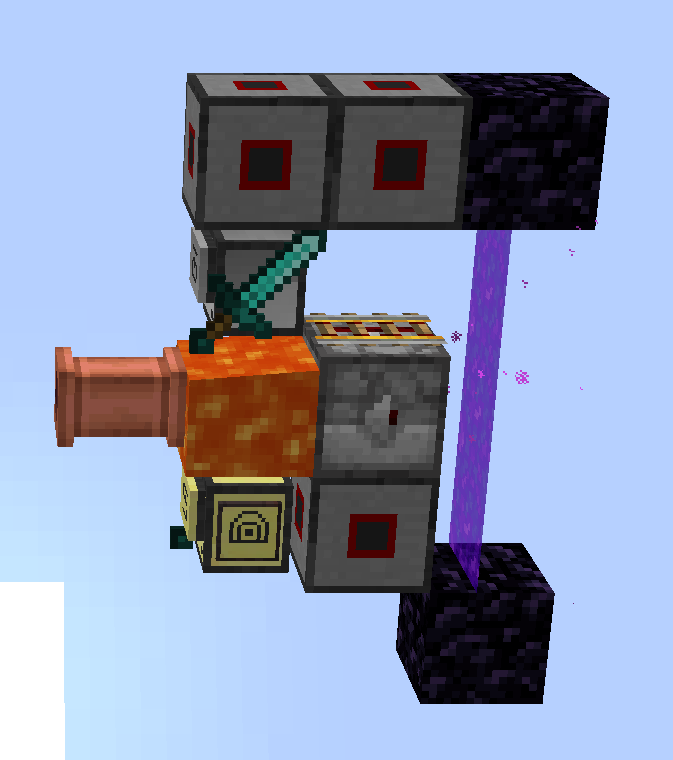
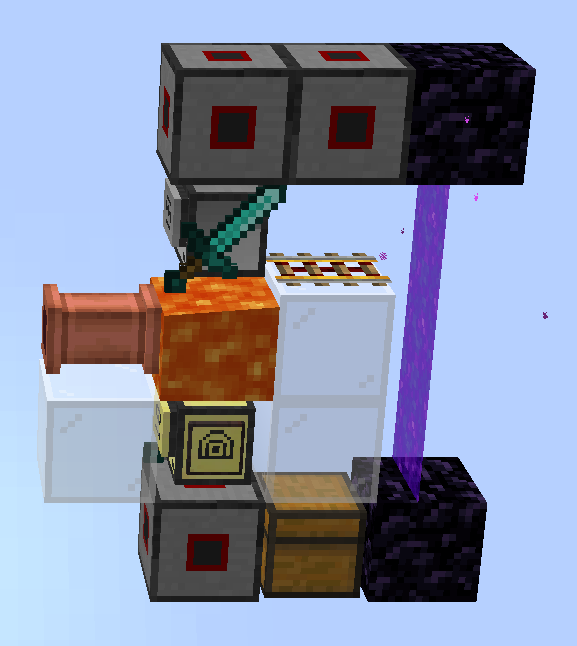
storage: Fix overworld home layout
Previously, the turtle couldn't see the wired modem in some
orientations.

diff --git a/sys/packages/storage/README.md b/sys/packages/storage/README.md
@@ -47,9 +47,9 @@ The overworld home looks like this:
 - The turtle at the top is an *ender helper*, which executes tasks on behalf of the client when it's in the Nether.
 - The pipe should be connected to a pump, refilling the lava source block.
 - Make sure that all modems are enabled and connected to one wired network with the storage.
-- The block to the right of lava is a dropper. Its orientation does not matter, and it serves exclusively as a non-flammable peripheral to keep the modem enabled when the client is away.
 - The rail is oriented towards the portal; you will need to play around with rails to place multiple such rails side by side, so maybe build that part first.
 - The turtle at the bottom is the ender storage turtle. When it's away, there will be flowing lava in its space, that's fine. You'll need to break the turtle for maintenance, so make sure you have a way of removing lava sources during that time.
+- The chest is empty and keeps the bottom modem enabled while the turtle is away.
 
 The Nether home looks like this:
 
